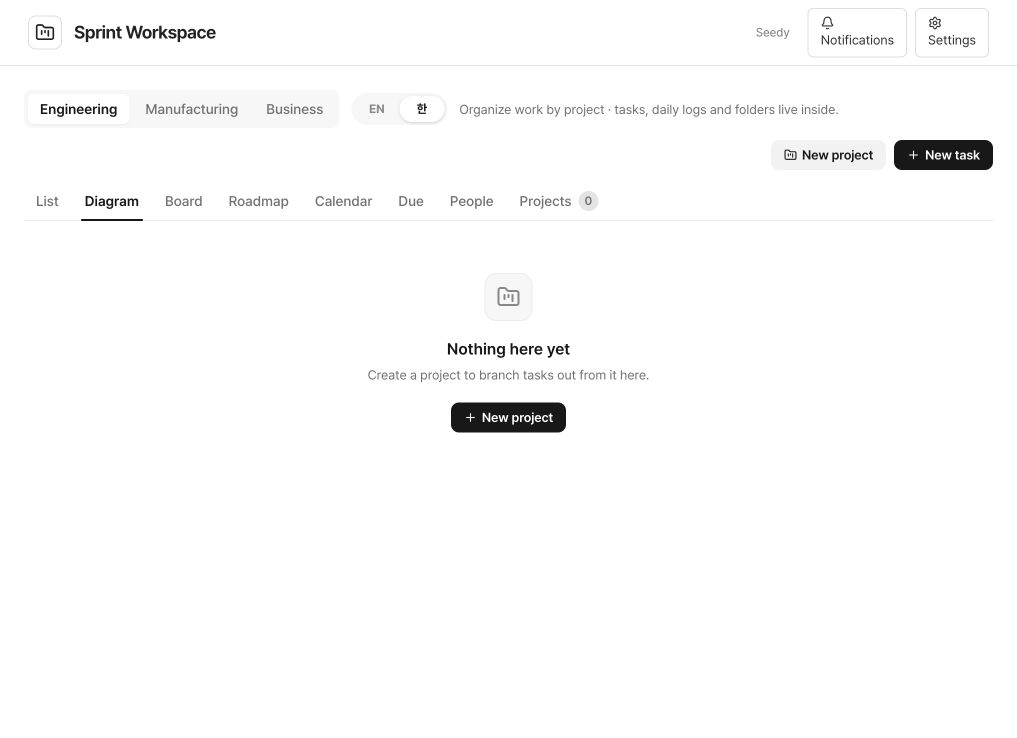
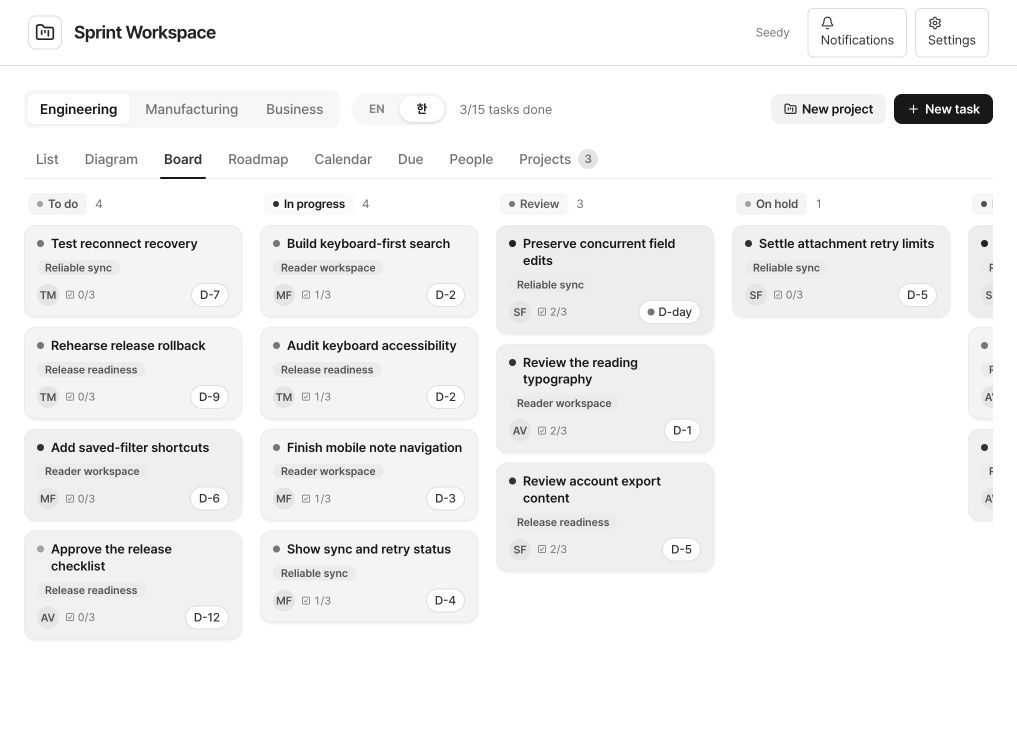
Update Site source

diff --git a/app/globals.css b/app/globals.css
@@ -7,7 +7,7 @@
 @font-face {font-family:Pretendard;src:url('/fonts/PretendardVariable.woff2') format('woff2');font-weight:100 900;font-display:swap;}
 :root {--font-sans:Pretendard,-apple-system,BlinkMacSystemFont,sans-serif;--surface-page:#fff;--surface-card:#fff;--surface-sunken:#f7f7f7;--color-primary:#181818;--color-primary-hover:#333;--color-primary-soft:#f2f2f2;--text-link:#222;--ring-focus:0 0 0 2px #d5d5d5;--border-default:#dedede;--border-subtle:#ececec;--text-strong:#171717;--text-default:#333;--text-muted:#717171;--text-subtle:#888;--blue-500:#333;--blue-600:#252525;--blue-700:#171717;--blue-50:#fafafa;--blue-100:#eee;--green-500:#555;--amber-500:#777;--red-500:#222;--red-600:#222;--dur-base:0ms;--dur-fast:0ms;}
 html,body{height:100%;margin:0}body{font-family:var(--font-sans);font-size:14px;background:#fff;color:#222}button,input,select,textarea{font-family:inherit}button,a,input,select,textarea{outline-offset:3px}button{cursor:pointer}button:disabled{cursor:default}
-.service-shell{height:100dvh;display:flex;flex-direction:column;min-width:0}.service-header{height:66px;flex-shrink:0;display:flex;align-items:center;justify-content:space-between;padding:0 28px;border-bottom:1px solid #e5e5e5;background:#fff;gap:20px}.service-brand{display:flex;align-items:center;gap:12px;font-size:18px;font-weight:650;letter-spacing:-.5px}.service-brand svg{border:1px solid #ddd;padding:6px;width:34px;height:34px;border-radius:8px}.service-header nav{display:flex;align-items:center;gap:8px}.quiet-button{border:1px solid #dedede;border-radius:6px;padding:7px 12px;background:#fff;font-size:13px;color:#333}.quiet-button:hover{background:#f6f6f6}.account-name{font-size:12px;color:#777;margin-right:10px;max-width:190px;overflow:hidden;text-overflow:ellipsis;white-space:nowrap}.service-body{flex:1;display:flex;min-height:0}.setup-page{padding:28px;overflow:auto;width:100%;max-width:1120px;margin:auto;height:100%}.setup-page h1{font-size:22px;margin:0 0 8px}.setup-page h2{font-size:16px;margin:28px 0 12px}.setup-page p{color:#666}.setup-grid{display:grid;grid-template-columns:repeat(3,1fr);gap:12px}.setup-card{border:1px solid #ddd;border-radius:8px;padding:16px}.setup-card strong{display:block;margin-bottom:8px}.setup-card code{font-size:11px;display:block;overflow-wrap:anywhere}.setup-form{display:flex;gap:8px;flex-wrap:wrap;margin:16px 0}.setup-form input,.setup-form select{border:1px solid #ddd;border-radius:5px;padding:8px 10px;min-width:150px}.setup-table{width:100%;border-collapse:collapse;font-size:13px}.setup-table th,.setup-table td{text-align:left;padding:10px 12px;border-bottom:1px solid #e5e5e5}.notice{border:1px solid #bbb;border-radius:6px;padding:12px;margin:12px 0;font-size:13px;background:#fafafa;overflow-wrap:anywhere}.empty-message{padding:35px;text-align:center;color:#777}.sx-anim-view,.sx-anim-pop{animation:none!important}.sx-sprint-content{overflow:auto}.sx-sprint .sx-tabs{flex-shrink:0}.sx-avatar{filter:grayscale(1)}.sx-sprint-language span{transition:none!important}
+.service-shell{height:100dvh;display:flex;flex-direction:column;min-width:0}.service-header{height:66px;flex-shrink:0;display:flex;align-items:center;justify-content:space-between;padding:0 28px;border-bottom:1px solid #e5e5e5;background:#fff;gap:20px}.service-brand{display:flex;align-items:center;gap:12px;font-size:18px;font-weight:650;letter-spacing:-.5px}.service-brand svg{border:1px solid #ddd;padding:6px;width:34px;height:34px;border-radius:8px}.service-header nav{display:flex;align-items:center;gap:8px}.quiet-button{border:1px solid #dedede;border-radius:6px;padding:7px 12px;background:#fff;font-size:13px;color:#333}.quiet-button:hover{background:#f6f6f6}.account-name{font-size:12px;color:#777;margin-right:10px;max-width:190px;overflow:hidden;text-overflow:ellipsis;white-space:nowrap}.service-body{flex:1;display:flex;min-width:0;min-height:0}.setup-page{padding:28px;overflow:auto;width:100%;max-width:1120px;margin:auto;height:100%}.setup-page h1{font-size:22px;margin:0 0 8px}.setup-page h2{font-size:16px;margin:28px 0 12px}.setup-page p{color:#666}.setup-grid{display:grid;grid-template-columns:repeat(3,1fr);gap:12px}.setup-card{border:1px solid #ddd;border-radius:8px;padding:16px}.setup-card strong{display:block;margin-bottom:8px}.setup-card code{font-size:11px;display:block;overflow-wrap:anywhere}.setup-form{display:flex;gap:8px;flex-wrap:wrap;margin:16px 0}.setup-form input,.setup-form select{border:1px solid #ddd;border-radius:5px;padding:8px 10px;min-width:150px}.setup-table{width:100%;border-collapse:collapse;font-size:13px}.setup-table th,.setup-table td{text-align:left;padding:10px 12px;border-bottom:1px solid #e5e5e5}.notice{border:1px solid #bbb;border-radius:6px;padding:12px;margin:12px 0;font-size:13px;background:#fafafa;overflow-wrap:anywhere}.empty-message{padding:35px;text-align:center;color:#777}.sx-anim-view,.sx-anim-pop{animation:none!important}.sx-sprint-content{overflow:auto}.sx-sprint .sx-tabs{flex-shrink:0}.sx-avatar{filter:grayscale(1)}.sx-sprint-language span{transition:none!important}
 .sx-mobile-tasks{height:100%;display:flex;flex-direction:column}.sx-mobile-segments{display:flex;gap:8px;margin-bottom:10px}.sx-mobile-segments button{background:#fff;border:1px solid #ddd;border-radius:5px;padding:8px}.sx-mobile-segments button[aria-pressed=true]{background:#eee}.sx-mobile-tasks__filters{display:flex;gap:8px}.sx-mobile-tasks__filters select{border:1px solid #ddd;padding:6px}.sx-mobile-tasks__count{padding:12px 0;font-size:12px;color:#777}.sx-mobile-tasks__list{overflow:auto}.sx-mobile-task{width:100%;display:flex;gap:12px;align-items:center;text-align:left;background:#fff;border:0;border-bottom:1px solid #eee;padding:14px 8px}.sx-mobile-task__main{display:flex;flex-direction:column;gap:6px;flex:1}.sx-mobile-task__title{font-size:14px}.sx-mobile-task__meta{display:flex;gap:8px;font-size:12px;color:#777}.sx-mobile-task__end{display:flex;align-items:center;gap:10px}
 @media(max-width:760px){.service-header{padding:0 16px;height:58px}.account-name{display:none}.service-brand{font-size:16px}.service-header nav{gap:4px}.quiet-button{padding:6px 8px;font-size:12px}.sx-desktop-only{display:none!important}.sx-sprint{padding:14px!important;gap:12px!important}.sx-sprint-toolbar{gap:6px!important;flex-wrap:nowrap!important}.sx-sprint-team{flex:1;min-width:0;border:0;font-weight:600;background:#fff}.sx-sprint-actions{margin-left:0!important;gap:4px!important}.sx-sprint-options{display:grid;grid-template-columns:auto 1fr;gap:8px;border:1px solid #ddd;padding:12px;border-radius:6px}.sx-sprint-options select{min-height:36px}.setup-page{padding:18px}.setup-grid{grid-template-columns:1fr}.setup-form{flex-direction:column}.setup-table{font-size:11px}.sx-task-drawer{width:100%!important;max-width:100vw!important}}
 

diff --git a/components/service/ServiceShell.tsx b/components/service/ServiceShell.tsx
@@ -16,7 +16,7 @@ export function ServiceShell(){
  async function memberSubmit(event:React.FormEvent<HTMLFormElement>){event.preventDefault();const form=event.currentTarget;const fields=new FormData(form);setBusy(true);setError('');try{await api(editMember?`members/${editMember.id}`:'members',{fullName:fields.get('fullName'),email:fields.get('email'),team:fields.get('team'),title:fields.get('title')},editMember?'PATCH':'POST');setEditMember(null);form.reset();await load();}catch(e){setError(String(e));}finally{setBusy(false);}}
  if(!data)return <div className="empty-message">{error||'Loading your workspace…'}{error&&<button onClick={()=>void load()}>Retry</button>}</div>;
  return <CurrentUserProvider user={data.user}><div className="service-shell"><header className="service-header"><a className="service-brand" href="/"><FolderKanban/>Sprint Workspace</a><nav><span className="account-name">{data.user.fullName}</span><button className="quiet-button" onClick={()=>setPage(page==='notifications'?'workspace':'notifications')}><Bell size={14} aria-hidden/> <span>Notifications</span></button><button className="quiet-button" onClick={()=>setPage(page==='settings'?'workspace':'settings')}><Settings size={14} aria-hidden/> <span>Settings</span></button></nav></header>{error&&<div role="alert" className="notice" style={{margin:"8px 24px",display:"flex",gap:16,alignItems:"center"}}><span style={{flex:1}}>{error}</span><button className="quiet-button" onClick={()=>setError('')}>Dismiss</button></div>}<main className="service-body">
- {page==='workspace'?<SprintWorkspace/>:<section className="setup-page"><button className="quiet-button" onClick={()=>setPage('workspace')}>← Workspace</button>
+ {page==='workspace'?<SprintWorkspace translation={data.integrations.ai}/>:<section className="setup-page"><button className="quiet-button" onClick={()=>setPage('workspace')}>← Workspace</button>
  {page==='settings'?<><h1 style={{marginTop:20}}>Members & connections</h1><p>Members are your workspace directory. Adding a member does not invite them or share your account.</p><h2>Members</h2><form className="setup-form" key={editMember?.id??'new'} onSubmit={memberSubmit}><input defaultValue={editMember?.fullName??''} name="fullName" placeholder="Full name" aria-label="Member full name" required/><input defaultValue={editMember?.email??''} name="email" type="email" placeholder="Email" aria-label="Member email" required/><select defaultValue={editMember?.team??'engineer'} name="team" aria-label="Member team"><option value="engineer">Engineering</option><option value="manufacturing">Manufacturing</option><option value="support">Business</option><option value="exec">Management</option></select><input defaultValue={editMember?.title??''} name="title" placeholder="Job title" aria-label="Job title"/><button className="quiet-button" disabled={busy}>{editMember?'Save member':'Add member'}</button>{editMember&&<button type="button" className="quiet-button" onClick={()=>setEditMember(null)}>Cancel</button>}</form><table className="setup-table"><thead><tr><th>Name</th><th>Email</th><th>Team</th><th/></tr></thead><tbody>{[data.user,...data.members].map(m=><tr key={m.id}><td>{m.fullName}</td><td>{m.email}</td><td>{m.team}</td><td>{m.id===data.user.id?'You':<><button className="quiet-button" onClick={()=>setEditMember(m)}>Edit</button> <button className="quiet-button" onClick={async()=>{try{await api(`members/${m.id}`,undefined,'DELETE');await load();}catch(e){setError(String(e));}}}>Delete</button></>}</td></tr>)}</tbody></table><h2>External connections</h2><p>Core planning uses your service database. Connect your own accounts to enable these optional features.</p><div className="setup-grid">{Object.entries(data.integrations).map(([name,state])=><article className="setup-card" key={name}><strong>{name==='ai'?'Translation & AI':name==='drive'?'Google Drive':'Email notifications'}</strong><p>{state.ready?'Configured':'Setup required'}</p>{state.required.map(key=><code key={key}>{key}</code>)}</article>)}</div><p>Set these values in your deployment’s server environment. Never put secrets in the browser or repository.</p><p>Your integration owner ID: <code>{data.user.id}</code></p><button className="quiet-button" onClick={()=>setPage('integrationRuns')}>View integration activity</button></>:<><h1 style={{marginTop:20}}>{page==='notifications'?'Notifications':'Integration activity'}</h1>{records.length===0?<div className="empty-message">No {page==='notifications'?'notifications':'integration activity'} yet.</div>:records.slice().reverse().map(r=><article className="setup-card" style={{marginTop:12}} key={String(r.id)}><strong>{String(r.title??r.integration)}</strong><p>{String(r.body??r.status)}</p>{!!r.error&&<p>{String(r.error)}</p>}<small>{String(r.createdAt)}</small>{typeof r.link==='string'&&<p><a href={r.link}>Open task</a></p>}</article>)}</>}
  </section>}</main></div></CurrentUserProvider>;
 }

diff --git a/components/pm/SprintWorkspace.tsx b/components/pm/SprintWorkspace.tsx
@@ -44,7 +44,7 @@ const PM_TEAMS: { key: PmTeam; label: string }[] = [
   { key: "business", label: "Business" },
 ];
 
-export function SprintWorkspace() {
+export function SprintWorkspace({ translation }: { translation: { ready: boolean; required: string[] } }) {
   const me = useCurrentUser();
   // Directory members resolve to u-* keys (currentUser DIRECTORY); externals get ext-*.
   const meKey = me.id;
@@ -73,6 +73,7 @@ export function SprintWorkspace() {
     return saved === "en" ? "en" : "ko";
   });
   const [i18n, setI18n] = useState<PmI18nRow[]>([]);
+  const translationBlocked = useRef(false);
   const [drawerTaskId, setDrawerTaskId] = useState<string | null>(null);
   const [drawerProjectId, setDrawerProjectId] = useState<string | null>(null);
   // 태스크 드로어를 프로젝트 드로어에서 열었을 때의 "뒤로" 목적지.
@@ -185,8 +186,12 @@ export function SprintWorkspace() {
   }
 
   function switchLang(next: PmLang) {
+    translationBlocked.current = false;
     setLang(next);
     try { window.localStorage.setItem("pm.lang", next); } catch { /* private mode */ }
+    if (!translation.ready) {
+      setToast({ tone: "danger", title: "Translate", text: `Translation setup required: configure your own ${translation.required.join(", ")} as server environment variables. INTEGRATION_OWNER_ID must match your signed-in user ID. Original text remains visible.` });
+    }
   }
 
   // 번역 캐시 로드 (1회)
@@ -227,7 +232,7 @@ export function SprintWorkspace() {
   // 제목·프로젝트명(kind task/project) + 체크리스트·설명(kind text)을 100개씩
   // 나눠 요청해 API 상한(200)에 걸려 일부만 번역되는 일이 없게 한다.
   useEffect(() => {
-    if (loading) return;
+    if (loading || !translation.ready || translationBlocked.current) return;
     const pending: { id: string; kind: "task" | "project"; text: string }[] = [];
     for (const t of tasks) {
       if (!needsTranslation(t.title, lang)) continue;
@@ -271,7 +276,10 @@ export function SprintWorkspace() {
             body: JSON.stringify({ target: lang, items: chunk.map((x) => ({ id: x.id, text: x.source })) }),
           });
           const json = await res.json() as {detail?:string;error?:string;items?:{id:string;text:string}[];assignments?:{taskId:string;projectId:string}[]};
-          if (!res.ok) throw new Error(json.detail || json.error || `HTTP ${res.status}`);
+          if (!res.ok) {
+            if (res.status === 503) translationBlocked.current = true;
+            throw new Error(json.detail || json.error || `HTTP ${res.status}`);
+          }
           for (const it of json.items ?? []) translated.set(String(it.id), String(it.text ?? ""));
           if (cancelled) return;
         }
@@ -298,6 +306,7 @@ export function SprintWorkspace() {
           ...rows,
         ]);
       } catch (err) {
+        if (cancelled) return;
         console.error("pm translate failed:", err);
         setToast({ tone: "danger", title: "Translate", text: err instanceof Error ? err.message : "Translation failed" });
       }
@@ -305,7 +314,7 @@ export function SprintWorkspace() {
     return () => { cancelled = true; };
     // i18nMap/textTrMap은 자체 갱신 결과라 의존성에서 제외 (재귀 방지 — pending 산출에만 사용)
     // eslint-disable-next-line react-hooks/exhaustive-deps
-  }, [lang, loading, tasks, projects]);
+  }, [lang, loading, tasks, projects, translation.ready]);
 
   // 현재 팀 파티션 — 모든 뷰/폼은 이 목록만 본다 (드로어 조회는 전체 유지).
   // lang 토글이 켜져 있으면 제목·프로젝트명을 번역본으로 치환해 뷰에 전달
@@ -747,7 +756,7 @@ export function SprintWorkspace() {
   }
 
   return (
-    <div className="sx-sprint" style={{ flex: 1, minHeight: 0, display: "flex", flexDirection: "column", padding: 24, gap: 12 }}>
+    <div className="sx-sprint" style={{ flex: 1, minWidth: 0, minHeight: 0, display: "flex", flexDirection: "column", padding: 24, gap: 12 }}>
       {/* Header: team partition tabs + actions (projects are the organizing unit now) */}
       <div className="sx-sprint-toolbar" style={{ display: "flex", alignItems: "center", gap: 12, flexWrap: "wrap" }}>
         {mobile ? (
@@ -836,7 +845,7 @@ export function SprintWorkspace() {
       />
 
       )}
-      <div key={view} className="sx-anim-view sx-sprint-content" style={{ flex: 1, minHeight: 0 }}>
+      <div key={view} className="sx-anim-view sx-sprint-content" style={{ flex: 1, minWidth: 0, minHeight: 0 }}>
         {view === "list" && <MobileTaskList tasks={activeTasks} projects={teamProjects} meKey={meKey} onOpen={openTask} />}
         {view === "diagram" && (
           <DiagramView

diff --git a/tests/workspace.test.tsx b/tests/workspace.test.tsx
@@ -1,0 +1,68 @@
+import { test } from 'node:test';
+import assert from 'node:assert/strict';
+import { act } from 'react';
+import { createRoot } from 'react-dom/client';
+import { parseHTML } from 'linkedom';
+import { SprintWorkspace } from '../components/pm/SprintWorkspace';
+import { CurrentUserProvider } from '../lib/auth/CurrentUserContext';
+import { taskSchema } from '../lib/server/domain';
+
+test('unconfigured translation stays silent across polling and only explains setup on explicit language changes', async () => {
+ const {window, document} = parseHTML('<html><head></head><body><div id="root"></div></body></html>');
+ const names = ['window', 'document', 'HTMLElement', 'HTMLIFrameElement', 'Element', 'Node', 'Event', 'localStorage', 'location', 'matchMedia', 'setInterval', 'clearInterval', 'fetch', 'IS_REACT_ACT_ENVIRONMENT'];
+ const previous = new Map(names.map(name => [name, Object.getOwnPropertyDescriptor(globalThis, name)]));
+ let poll: (() => void) | undefined;
+ let translations = 0;
+ let loads = 0;
+ const preferences = new Map([['pm.lang', 'ko']]);
+ Object.assign(globalThis, {
+  window, document, HTMLElement: window.HTMLElement, HTMLIFrameElement: window.HTMLIFrameElement,
+  Element: window.Element, Node: window.Node, Event: window.Event,
+  localStorage: {getItem: (key: string) => preferences.get(key) ?? null, setItem: (key: string, value: string) => preferences.set(key, value)},
+  location: {search: '', pathname: '/', origin: 'http://127.0.0.1:4314'},
+  matchMedia: () => ({matches: false, addEventListener() {}, removeEventListener() {}}),
+  setInterval: (callback: () => void) => {poll = callback; return 1;},
+  clearInterval() {},
+  IS_REACT_ACT_ENVIRONMENT: true,
+  fetch: async (url: string) => {
+   if (url === '/api/pm/workspace') {
+    loads++;
+    return Response.json({projects: [], comments: [], sprints: [], tasks: [{...taskSchema.parse({title: 'Example task'}), id: 'ui-fixture', createdAt: '', updatedAt: ''}]});
+   }
+   if (url === '/api/pm/i18n') return Response.json([]);
+   if (url === '/api/pm/translate') {
+    translations++;
+    return Response.json({error: 'Configure OPENAI_API_KEY'}, {status: 503});
+   }
+   throw new Error(`Unexpected request: ${url}`);
+  },
+ });
+ const root = createRoot(document.getElementById('root')!);
+ try {
+  await act(async () => root.render(
+   <CurrentUserProvider user={{id: 'ui-owner', fullName: 'Fixture User', email: 'fixture@example.test', role: 'admin', team: 'engineer', title: '', avatarUrl: null}}>
+    <SprintWorkspace translation={{ready: false, required: ['INTEGRATION_OWNER_ID', 'OPENAI_API_KEY', 'OPENAI_MODEL']}}/>
+   </CurrentUserProvider>,
+  ));
+  assert.equal(translations, 0);
+  assert.equal(document.querySelector('[role="status"]'), null);
+  assert.ok(poll);
+  await act(async () => {poll!();});
+  await act(async () => {poll!();});
+  assert.equal(loads, 3);
+  assert.equal(translations, 0);
+  const toggle = document.querySelector<HTMLButtonElement>('[aria-label="Toggle display language"]')!;
+  await act(async () => toggle.click());
+  assert.match(document.querySelector('[role="status"]')?.textContent ?? '', /OPENAI_API_KEY/);
+  await act(async () => document.querySelector<HTMLButtonElement>('[aria-label="Dismiss"]')!.click());
+  await act(async () => {poll!();});
+  assert.equal(document.querySelector('[role="status"]'), null);
+  assert.equal(translations, 0);
+ } finally {
+  await act(async () => root.unmount());
+  for (const [name, descriptor] of previous) {
+   if (descriptor) Object.defineProperty(globalThis, name, descriptor);
+   else Reflect.deleteProperty(globalThis, name);
+  }
+ }
+});

diff --git a/components/pm/TaskBoard.tsx b/components/pm/TaskBoard.tsx
@@ -138,7 +138,7 @@ export function TaskBoard({
       className="sx-board-swipe"
       ref={boardRef}
       onDragOverCapture={(e) => autoScrollAt(e.clientX, e.clientY, e.target)}
-      style={{ display: "flex", gap: 16, height: "100%", minHeight: 0, alignItems: "stretch" }}
+      style={{ display: "flex", gap: 16, width: "100%", minWidth: 0, height: "100%", minHeight: 0, overflowX: "auto", overflowY: "hidden", alignItems: "stretch" }}
     >
       {STATUS_ORDER.map((status) => {
         const items = tasks.filter((t) => t.status === status).sort(compareTasks);

diff --git a/docs/IMPLEMENTATION-REPORT.md b/docs/IMPLEMENTATION-REPORT.md
@@ -8,16 +8,19 @@
 - Added real Google Drive browse/create/move adapters, OpenAI translation/work-order/project-assignment adapters and Resend email delivery. Missing setup returns precise 503 errors; API keys are never sent to the browser. Integration credentials are usable only by the explicitly configured integration owner.
 - Added an authenticated Grants handoff review screen. Creation requires a button click and a stable owner/grant key prevents duplicate imports. It returns the actual task link and posts the agreed callback only to the known Grants origins.
 - Replaced presentation tokens with a white/gray/black palette and local licensed Pretendard. Preserved view-specific information structure. Business records never use localStorage; original layout/language/team preferences still do.
+- Added an explicitly invoked local-only screenshot fixture after the user authorized fictional example data. The helper creates three coherent fictional projects, 15 tasks across all five statuses, four invented directory members with reserved `.example` contacts, six daily logs and three comments through the actual API/D1. Runtime startup and hosted deployment remain unseeded. Cleanup follows an ignored manifest of created IDs and preserves unrelated records.
 
 ## Executed verification
 
 - `npm run typecheck`: passed.
 - `npm run build`: passed through all five Vinext build stages.
-- `npm test`: 13 tests passed using actual Miniflare D1 storage and isolated DOM tests, including empty initial storage, CRUD, owner isolation, foreign-parent rejection, invalid-input preservation, HTML sanitation, date checkpoints and completion boundaries, task/project deletion semantics, restore, original sorting/rollup/rules/reactions, and persistence after disposing/restarting Miniflare. Three independent-review regressions were reproduced before correction: simultaneous objective/status writes, escaped markup becoming HTML during memo link/mention formatting, and members loaded after the mention composer module initialized. All three pass after correction.
+- `npm test`: 14 tests passed using actual Miniflare D1 storage and isolated DOM/React tests, including empty initial storage, CRUD, owner isolation, foreign-parent rejection, invalid-input preservation, HTML sanitation, date checkpoints and completion boundaries, task/project deletion semantics, restore, original sorting/rollup/rules/reactions, and persistence after disposing/restarting Miniflare. Three independent-review regressions were reproduced before correction: simultaneous objective/status writes, escaped markup becoming HTML during memo link/mention formatting, and members loaded after the mention composer module initialized. All three pass after correction.
 - D1 updates apply only requested fields atomically with `json_set` and preserve explicit `null` values. Project deletion detaches tasks with the same field-level update rather than replacing their contents. Memo text formatting creates text/element nodes without parsing text as HTML; mention suggestions read the current directory on each input.
+- Populated screenshot QA exposed Board columns widening the page and repeated translation errors during polling. The Board now scrolls horizontally within constrained flex parents. Automatic translation uses the authenticated bootstrap connection status and stops after a setup-related 503; explicit language changes retain setup feedback. A mounted React regression reproduced the unwanted initial request, then verified no provider requests/toasts on unconfigured initial load or repeated polling, an explicit setup message, dismissal, and no reappearance on a later poll.
 - `npm run db:migrate`: applied the generated schema successfully to the local preview database. The tracked local Wrangler config points at the same DB identity and persistence directory as the starter.
 - `node tests/http-smoke.mjs`: passed against port 4314. Verified unauthenticated 401, stripped spoofed identity headers, cross-origin write rejection, project/task creation, invalid update preservation, forced server author identity, comments, daily logs, reactions, explicit missing AI setup, R2 bytes upload/download, and idempotent grant import. Test-created local records/files were deleted, with task-linked records removed by cascade logic.
 - No paid AI request, real email, company backend or company Drive data was used during verification. Source `.env` files were never read or copied.
+- `node scripts/screenshot-fixture.mjs seed` created and verified the bounded fictional dataset on port 4314. The cleanup/reseed cycle was exercised locally; a populated dataset remains for parent screenshot capture. The helper has a fixed loopback URL and rejects redirects, so it cannot target hosted storage. README captions explicitly identify fictional demonstration data.
 
 ## Exact remaining setup and limits
 

diff --git a/README.md b/README.md
@@ -4,13 +4,13 @@ A private web service for projects, tasks, daily logs and deadlines, preserving 
 
 [Requirements](#prerequisites-and-your-data) · [Quickstart](#local-setup) · [Workflows](#workflows) · [Architecture](#architecture-and-verification) · [Feature inventory](docs/FEATURE-PARITY.md)
 
-![Sprint workspace running with an empty database](docs/images/overview.png)
+![Sprint workspace example screen](docs/images/overview.png)
 
-*Actual running service before the first project. Tasks and project rollups come from your saved records.*
+*Actual local service with fictional demonstration data for the example screenshots. Project rollups come from saved D1 records; no company records or real contacts are shown.*
 
 ## Prerequisites and your data
 
-The database starts empty. No company accounts, employees, project records, credentials or sample data are included.
+The runtime database starts empty. No company accounts, employees, project records or credentials are included. The README screenshot dataset is fictional and is created only by an explicitly run local helper; installation and deployment never seed it.
 
 | Requirement | Required for | Setup |
 |---|---|---|
@@ -49,6 +49,16 @@ npm run dev -- --port 4314
 Use the printed loopback URL and the development sign-in flow. The Sites starter’s mock sign-in is local only. `npm start -- --port 4314` runs the built Worker with local D1/R2 but does not itself simulate sign-in. Both modes persist local storage under `.wrangler/state`. Hosted D1 is a separate database; Sites applies committed migrations at deployment.
 
 After changing `db/schema.ts`, run `npm run db:generate`, review the generated migration and apply it with `npm run db:migrate`. Normal setup uses the committed migrations.
+
+To reproduce the populated example screens, keep the local preview running on port 4314 and run:
+
+```sh
+node scripts/screenshot-fixture.mjs seed
+# Capture Engineering → Diagram or Board, then remove only the created records:
+node scripts/screenshot-fixture.mjs cleanup
+```
+
+The helper is fixed to `http://127.0.0.1:4314`, rejects redirects and uses the actual authenticated API/D1. It creates three fictional projects, 15 tasks, four directory members, six daily logs and three comments. Names are invented and emails use reserved `.example` domains. The created IDs are recorded in ignored `.wrangler/screenshot-fixture.json`; cleanup uses only that list and preserves unrelated records. It never calls email, AI or other external integrations. Keep the manifest until cleanup is complete.
 
 ## Workflows
 
